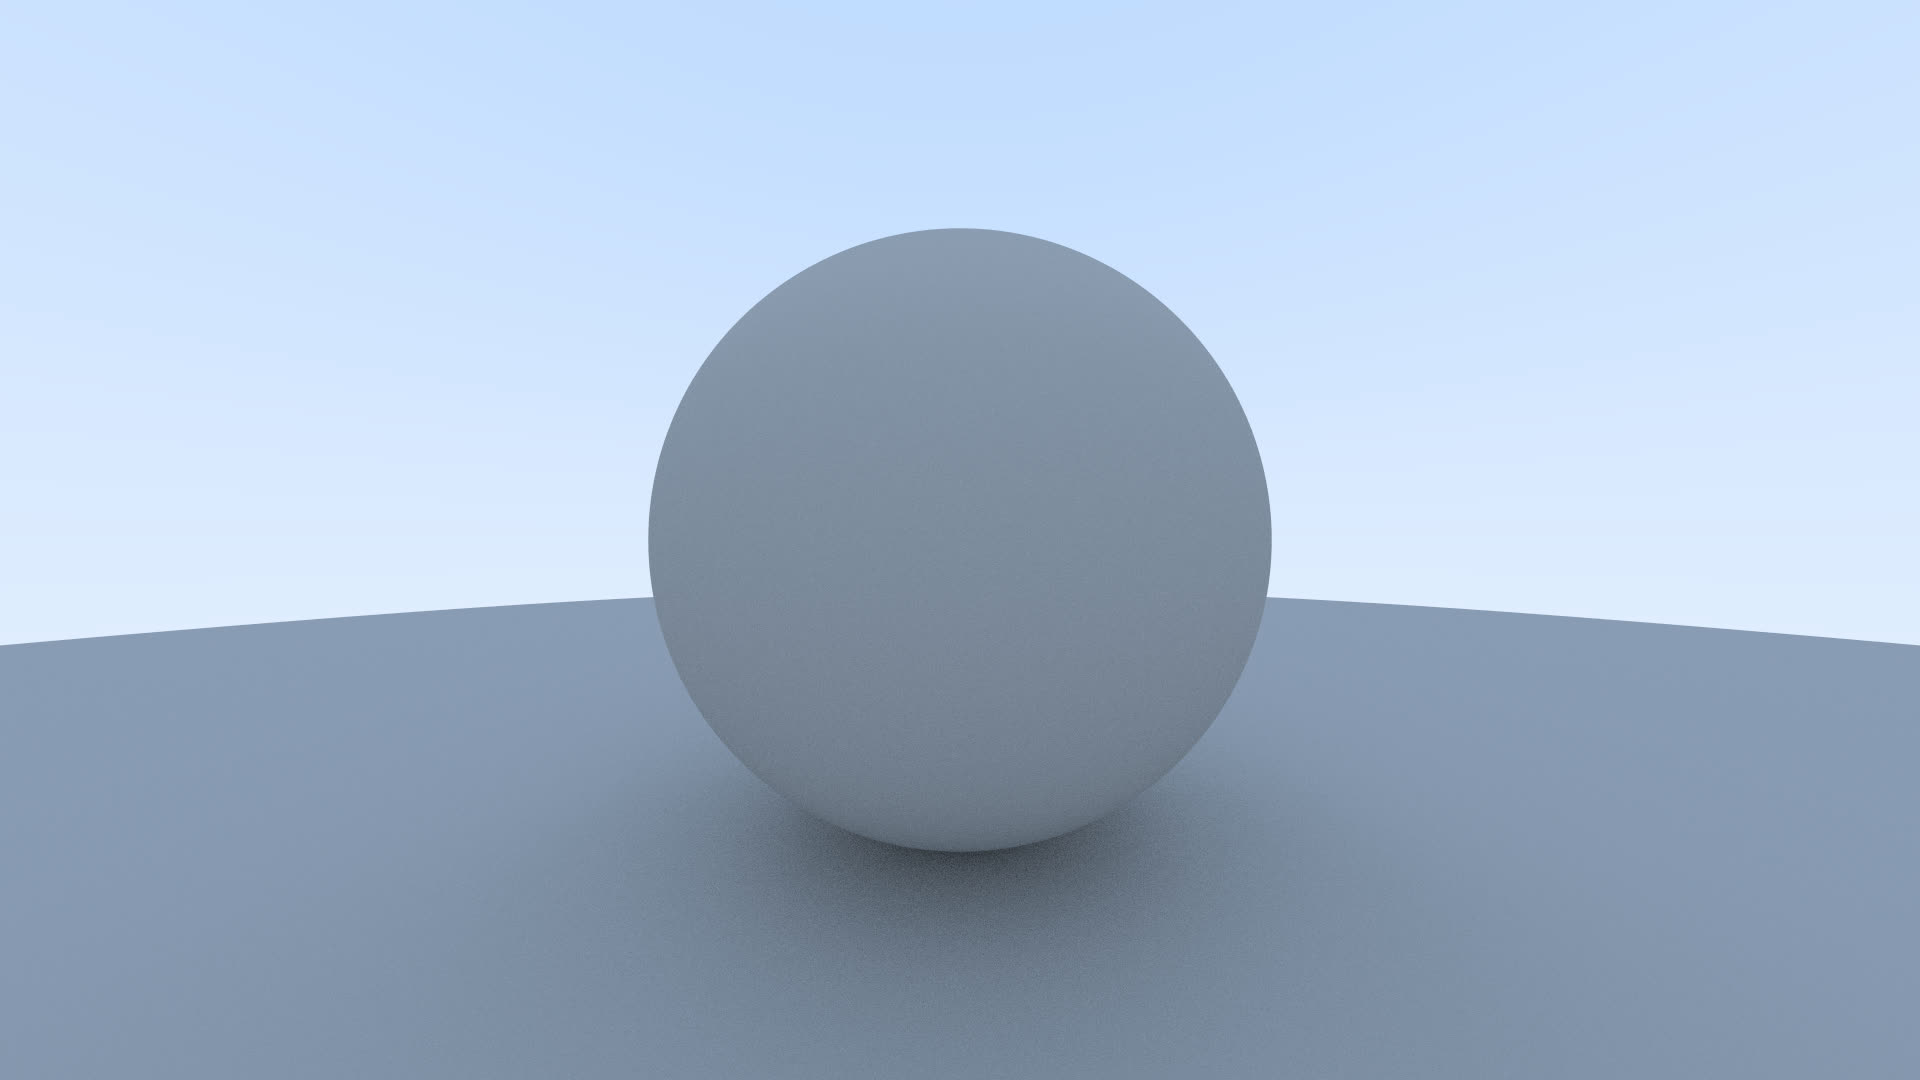
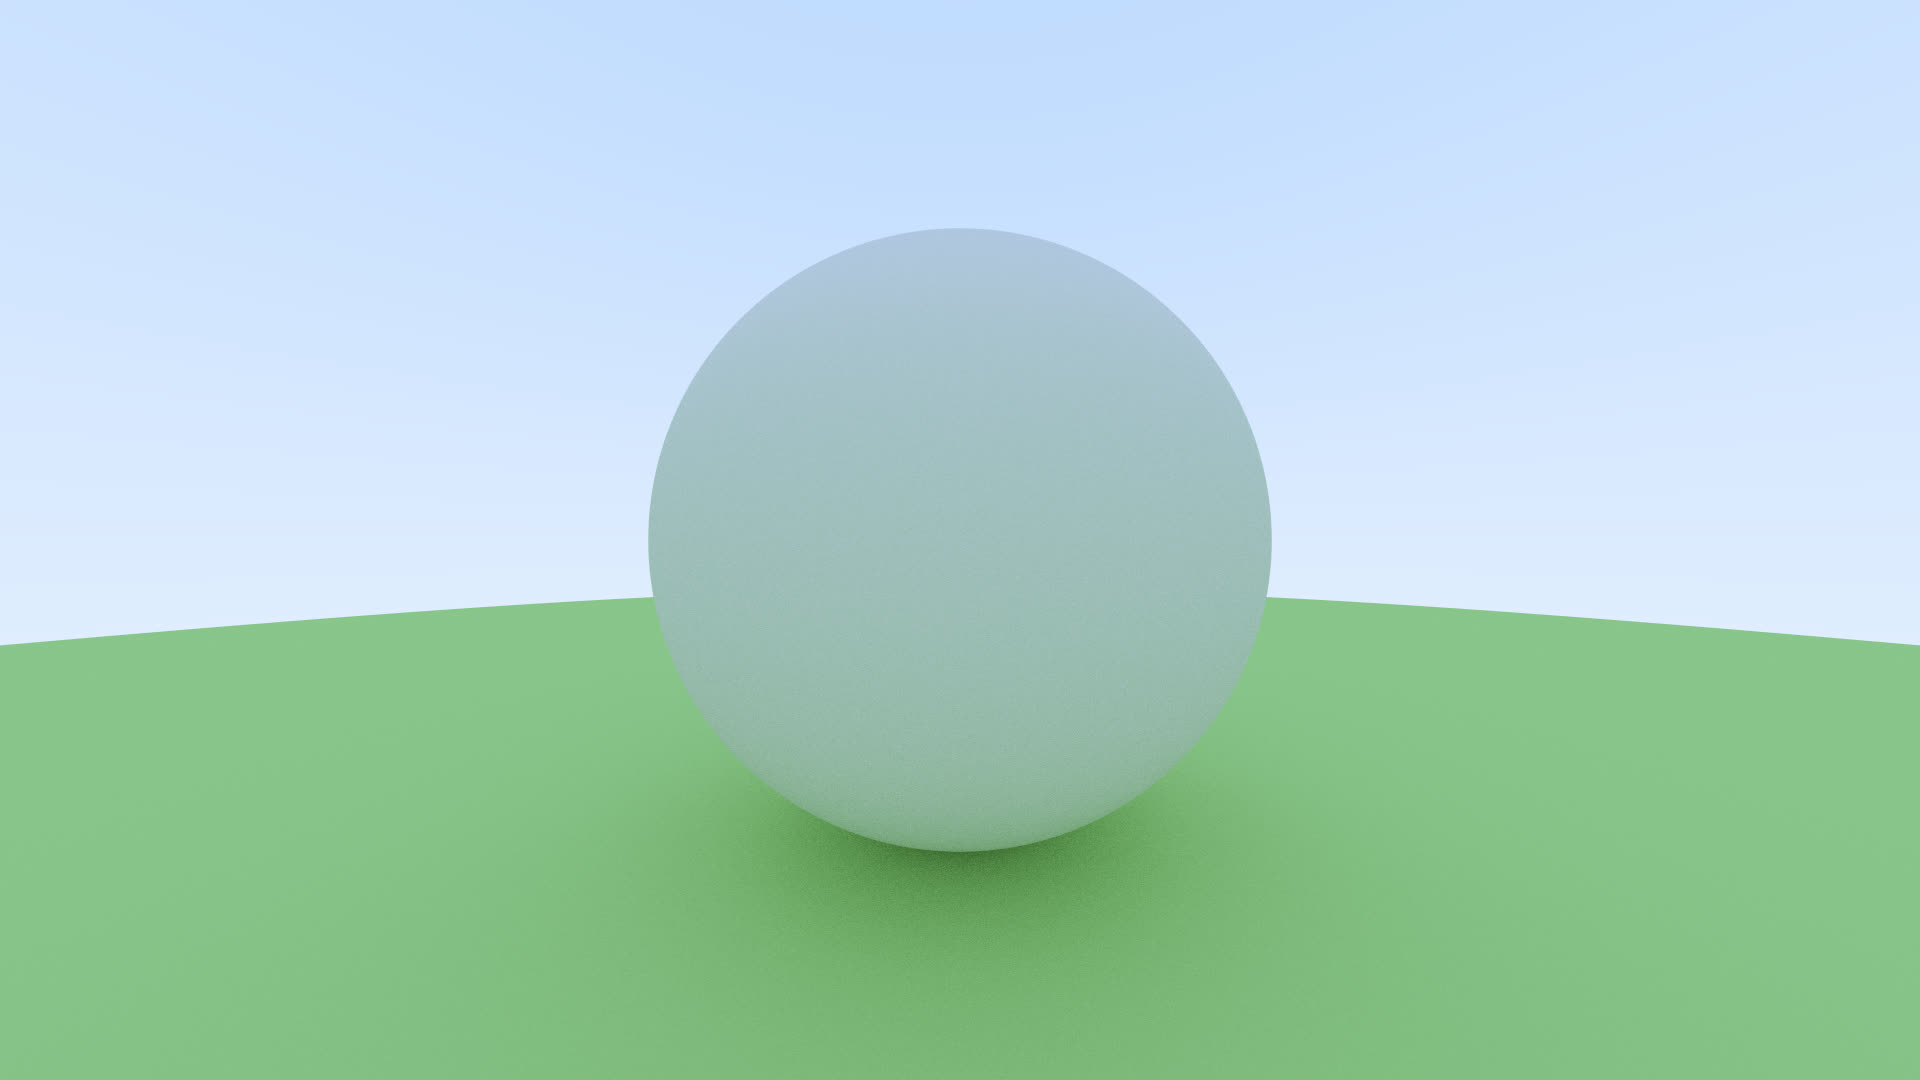
new material class and diffuse material added

diff --git a/material.h b/material.h
@@ -1,0 +1,35 @@
+#ifndef MATERIAL_H
+#define MATERIAL_H
+
+#include "hittable.h"
+
+class material{
+    public:
+        virtual ~material() = default;
+
+        virtual bool scatter(const ray& r_in, const hit_record& rec, color& attenuation, ray& scattered) const{
+            return false;
+        }
+};
+
+class lambertian: public material{
+    private:
+        color albedo;
+    public:
+        lambertian(const color& albedo){
+            this->albedo=albedo;
+        }
+
+        bool scatter(const ray& r_in, const hit_record& rec, color& attenuation, ray& scattered) const override{
+            vec3 scatter_direction=rec.normal+random_unit_vector();
+            if(scatter_direction.near_zero()){
+                scatter_direction=rec.normal;
+            }
+            
+            scattered=ray(rec.p,scatter_direction);
+            attenuation=albedo;
+            return true;
+        }
+};
+
+#endif

diff --git a/ray_sphere.cpp b/ray_sphere.cpp
@@ -3,17 +3,22 @@
 
 #include "hittable.h"
 #include "hittable_list.h"
+#include "material.h"
 #include "sphere.h"
 
 int main(){
     hittable_list world;
-    world.add(std::make_shared<sphere>(point3(0,0,-1),0.5));
-    world.add(std::make_shared<sphere>(point3(0,-100.5,-1),100));
+
+    std::shared_ptr<lambertian> mat_ground=std::make_shared<lambertian>(color(0.5,0.8,0.3));
+    std::shared_ptr<lambertian> mat_diffuse=std::make_shared<lambertian>(color(0.8,0.8,0.8));
+
+    world.add(std::make_shared<sphere>(point3(0,0,-1),0.5,mat_diffuse));
+    world.add(std::make_shared<sphere>(point3(0,-100.5,-1),100,mat_ground));
 
     camera cam;
 
     cam.aspect_ratio=16.0/9.0;
-    cam.image_width=400;
+    cam.image_width=1920;
     cam.samples_per_pixel=100;
     cam.max_depth=50;
 

diff --git a/camera.h b/camera.h
@@ -2,6 +2,7 @@
 #define CAMERA_H
 
 #include "hittable.h"
+#include "material.h"
 #include <fstream>
 #include <string>
 
@@ -95,8 +96,12 @@ class camera{
 
             hit_record rec;
             if(world.hit(r,interval(0.001,infinity),rec)){
-                vec3 direction=rec.normal+random_unit_vector();
-                return 0.5*ray_color(ray(rec.p,direction),depth-1,world);
+                ray scattered;
+                color attenuation;
+                if(rec.mat->scatter(r,rec,attenuation,scattered)){
+                    return attenuation*ray_color(scattered,depth-1,world);
+                }
+                return color();
             }
             vec3 unit_dir=unit_vector(r.direction());
             double a=0.5*(unit_dir.y()+1.0);

diff --git a/sphere.h b/sphere.h
@@ -8,10 +8,12 @@ class sphere: public hittable{
     private:
         point3 center;
         double radius;
+        std::shared_ptr<material> mat;
     public:
-        sphere(const point3& center, double radius){
+        sphere(const point3& center, double radius, std::shared_ptr<material> mat){
             this->center=center;
             this->radius=std::fmax(0,radius);
+            this->mat=mat;
         }
 
         bool hit(const ray& r, interval ray_t, hit_record& rec) const override{
@@ -37,6 +39,7 @@ class sphere: public hittable{
             rec.p=r.at(rec.t);
             vec3 outward_normal=(rec.p-center)/radius;
             rec.set_face_normal(r,outward_normal);
+            rec.mat=mat;
 
             return true;
         }

diff --git a/vec3.h b/vec3.h
@@ -57,6 +57,11 @@ class vec3{
             return std::sqrt(length_squared());
         }
 
+        bool near_zero() const{
+            double s=1e-8;
+            return (std::fabs(e[0])<s && std::fabs(e[1])<s && std::fabs(e[2])<s);
+        }
+
         static vec3 random(){
             return vec3(random_double(),random_double(),random_double());
         }

diff --git a/hittable.h b/hittable.h
@@ -3,10 +3,13 @@
 
 #include "ray.h"
 
+class material;
+
 class hit_record{
     public:
         point3 p;
         vec3 normal;
+        std::shared_ptr<material> mat;
         double t;
         bool front_face;
 